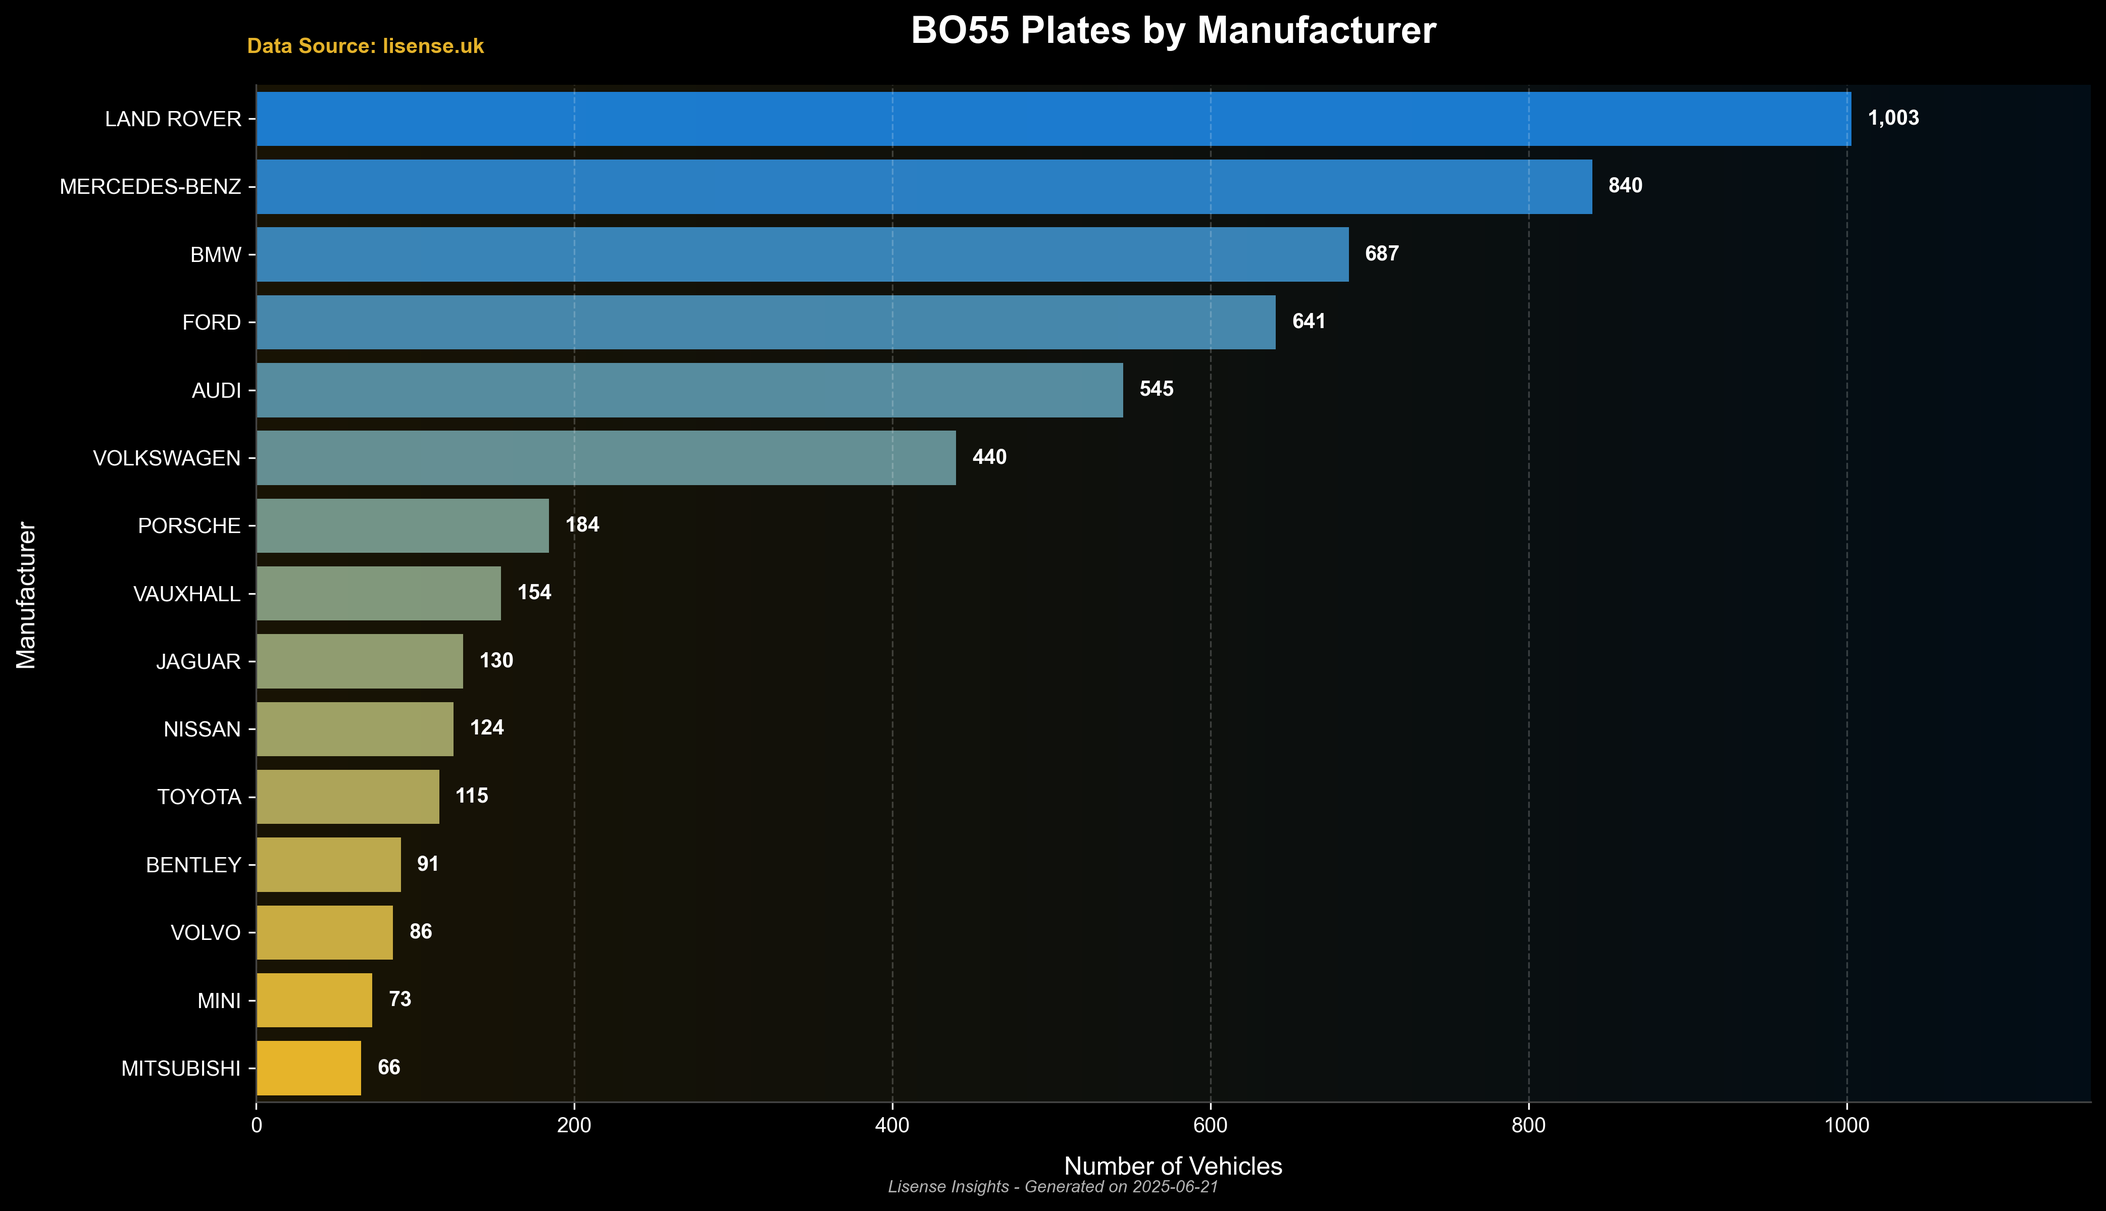
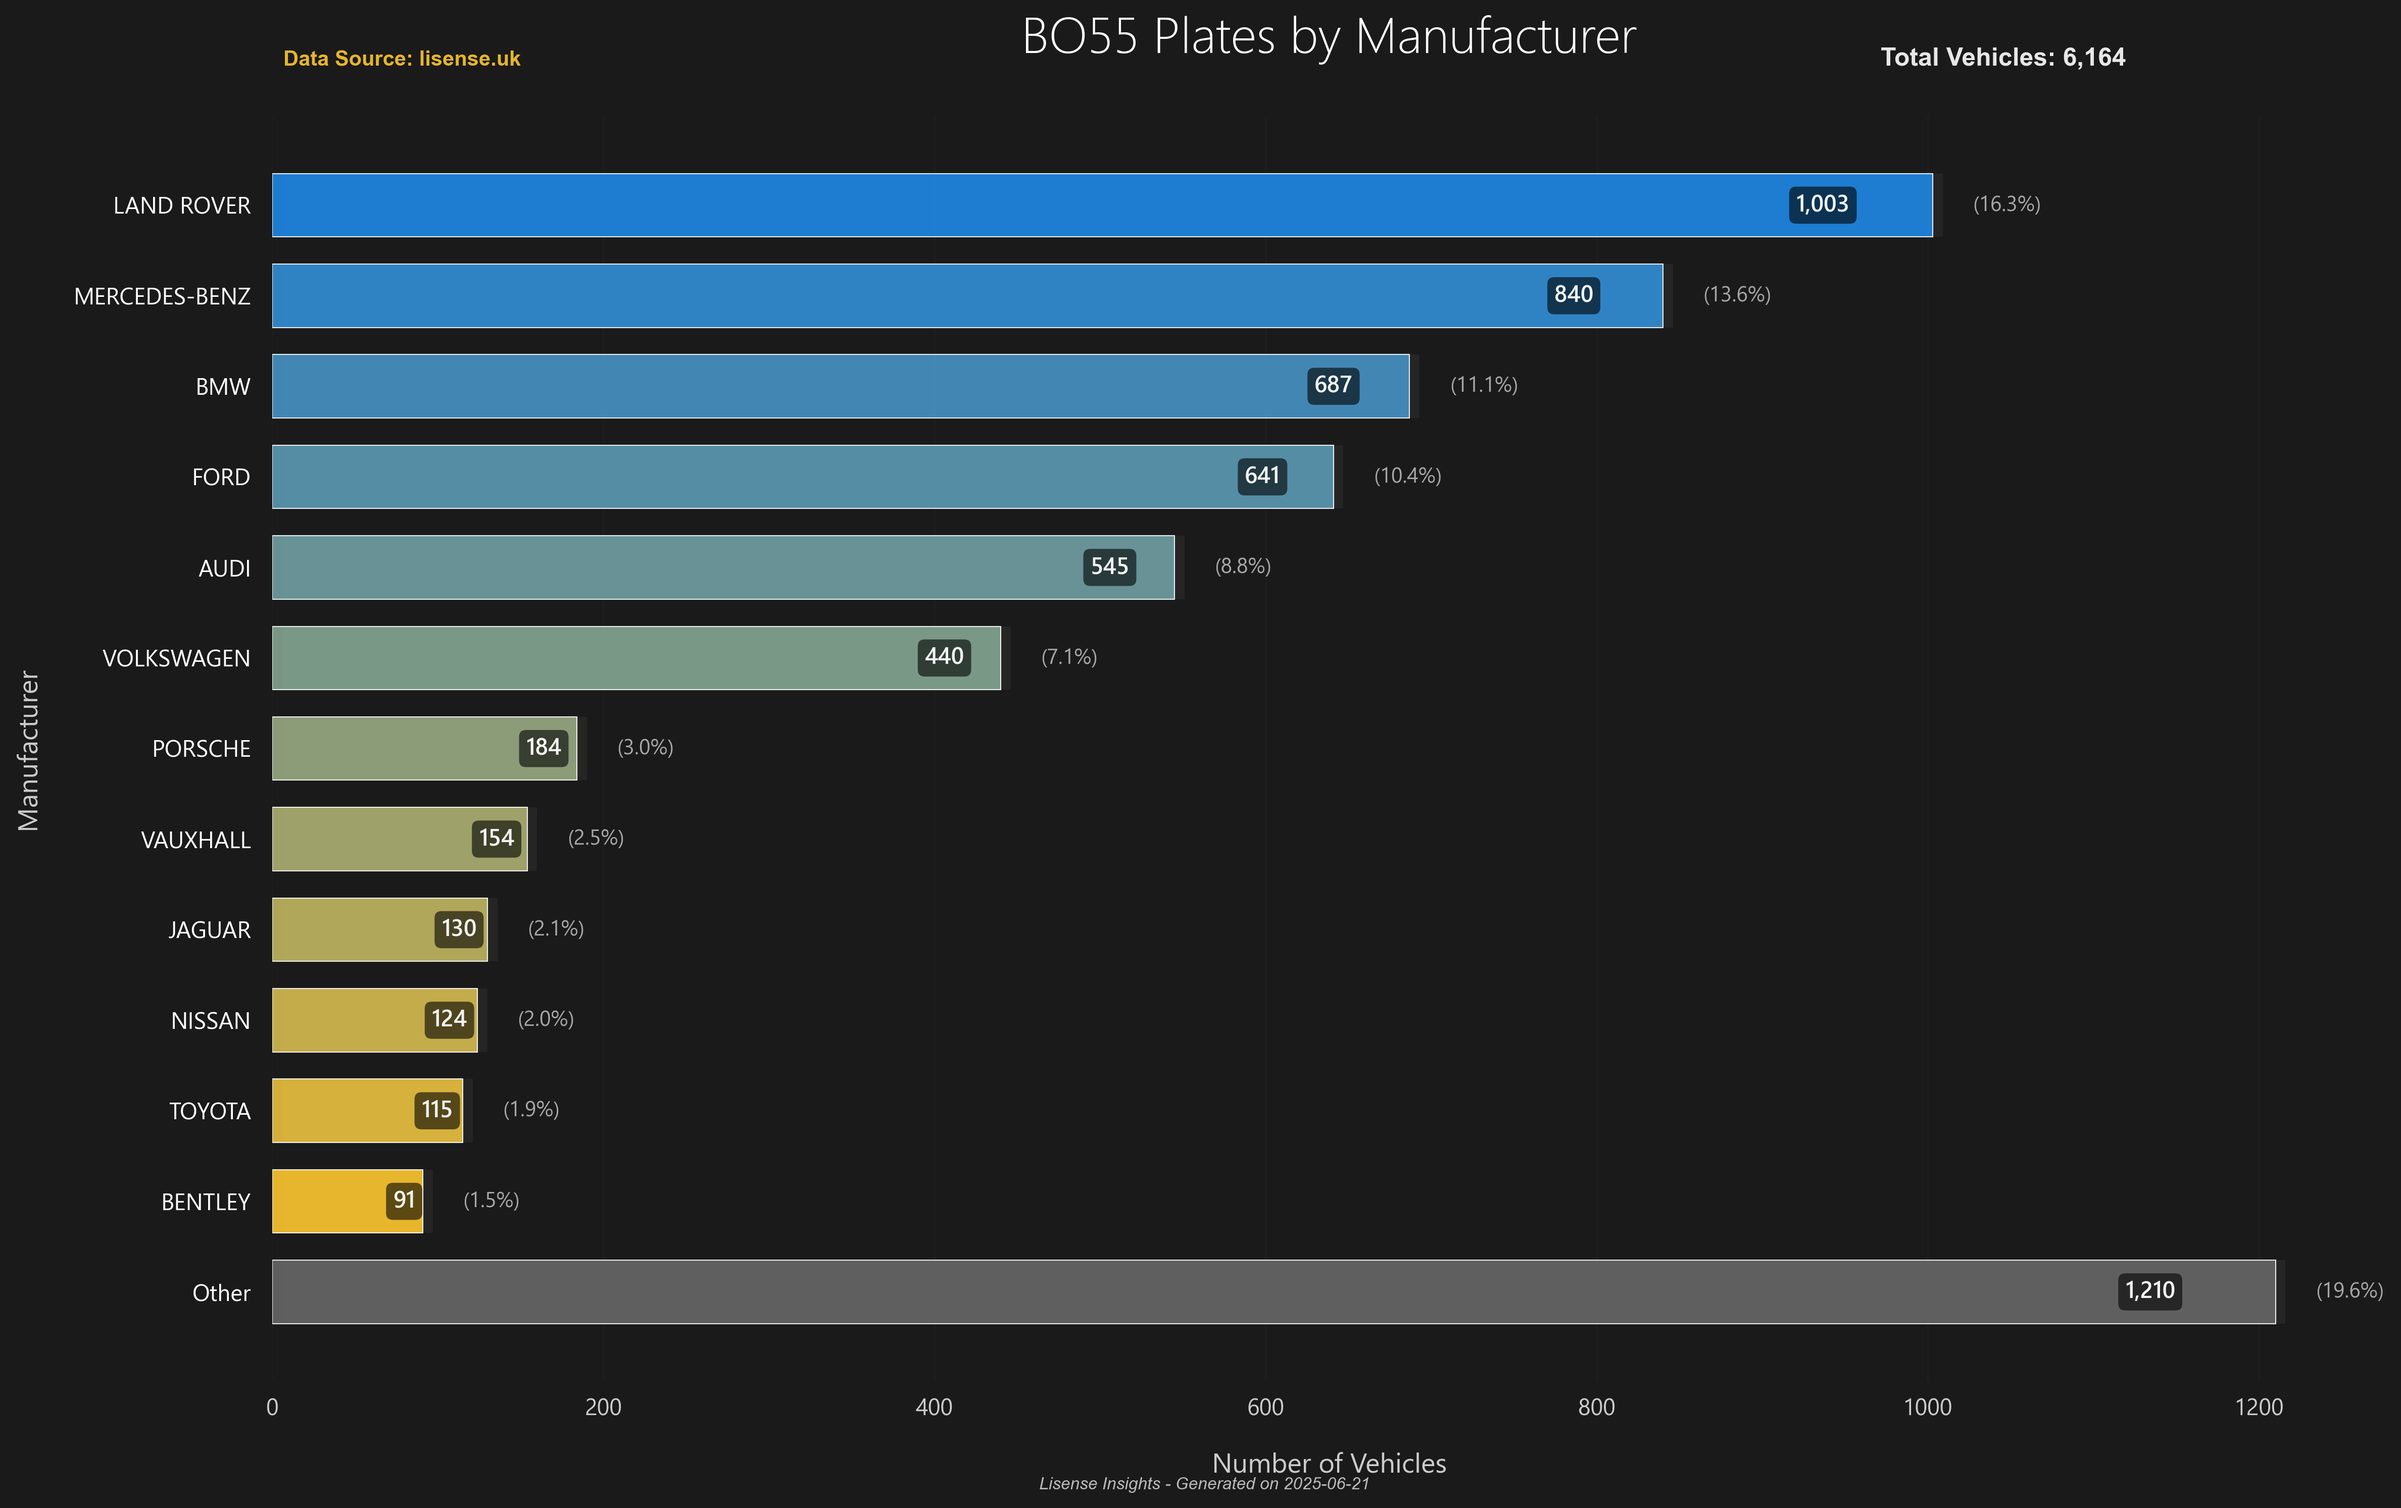
Update README.md and app.py for vehicle data visualization improvements
- Renamed input CSV file to `bo55_plates.csv` for consistency.
- Adjusted visualization to display top 12 vehicle makes instead of 15.
- Enhanced plot styling with modern fonts and colors.
- Added total vehicle count display in the plot footer.

diff --git a/app.py b/app.py
@@ -21,73 +21,132 @@ def plot_vehicle_makes(df):
     if df is None or df.empty:
         print("No data to plot")
         return
+      # Count the occurrences of each make and sort for better visualization
+    all_makes = df['make'].value_counts()
+    top_makes = all_makes.nlargest(12)  # Get top 12 manufacturers
     
-    # Count the occurrences of each make and sort for better visualization
-    make_counts = df['make'].value_counts().nlargest(15)  # Limit to top 15 for cleaner visualization
+    # Calculate "Other" category from remaining manufacturers
+    other_count = all_makes.iloc[12:].sum() if len(all_makes) > 12 else 0
     
-    # Reverse the order for display (highest at the top)
-    make_counts = make_counts.iloc[::-1]
+    # Create the final counts with "Other" at the bottom
+    if other_count > 0:
+        # Reverse the top makes for display (highest at the top)
+        make_counts = top_makes.iloc[::-1]
+        # Add "Other" at the bottom (first position after reversal)
+        make_counts = pd.concat([pd.Series([other_count], index=['Other']), make_counts])
+    else:
+        # If no "Other" category needed, just reverse for display
+        make_counts = top_makes.iloc[::-1]
+      # Set ultra-modern styling with dark background
+    plt.style.use('dark_background')  # Start with dark theme
+    plt.rcParams.update({
+        'font.family': ['Segoe UI', 'Arial'],
+        'font.size': 11,
+        'axes.labelsize': 12,
+        'axes.titlesize': 20,
+        'xtick.labelsize': 10,
+        'ytick.labelsize': 11,
+        'axes.linewidth': 0,
+        'axes.spines.left': False,
+        'axes.spines.bottom': False,
+        'axes.spines.top': False,
+        'axes.spines.right': False,
+    })
     
-    # Set the style and use modern fonts
-    plt.style.use('dark_background')
-    plt.rcParams['font.family'] = 'Arial'  # Use a clean, modern font
-    
-    # Set up the figure size with high DPI for better quality
-    fig, ax = plt.subplots(figsize=(14, 8), dpi=100)
-    
-    # Create a custom color palette that includes #fec72f (yellow/gold)
+    # Set up the figure with dark background
+    fig, ax = plt.subplots(figsize=(16, 10), dpi=100)
+    fig.patch.set_facecolor('#1a1a1a')  # Dark background
+    ax.set_facecolor('#1a1a1a')    # Create a custom color palette that includes #fec72f (yellow/gold)
     start_color = '#fec72f'  # Yellow/gold
     end_color = '#1e88e5'    # Blue
     custom_cmap = mpl.colors.LinearSegmentedColormap.from_list("custom", [start_color, end_color])
-    colors = [custom_cmap(i) for i in np.linspace(0, 1, len(make_counts))]
     
-    # Create a horizontal bar plot with custom styling
-    bars = ax.barh(make_counts.index, make_counts.values, color=colors, alpha=0.9)
+    # Create colors, with special color for "Other" if it exists
+    if 'Other' in make_counts.index:
+        colors = [custom_cmap(i) for i in np.linspace(0, 1, len(make_counts)-1)]
+        # Add a distinct color for "Other" category
+        colors.insert(0, '#666666')  # Gray color for "Other" at the bottom
+    else:
+        colors = [custom_cmap(i) for i in np.linspace(0, 1, len(make_counts))]
     
-    # Add data labels to the bars
-    for i, bar in enumerate(bars):
-        ax.text(bar.get_width() + (make_counts.max() * 0.01), 
+    # Create bars with rounded corners effect and shadow
+    bars = ax.barh(make_counts.index, make_counts.values, 
+                   color=colors[:len(make_counts)], 
+                   height=0.7, alpha=0.9,
+                   edgecolor='white', linewidth=0.5)
+      # Add subtle shadow effect by creating offset bars
+    shadow_bars = ax.barh(make_counts.index, make_counts.values, 
+                         color='#404040', height=0.7, alpha=0.3,
+                         left=make_counts.max() * 0.005)  # Slight offset for shadow
+    
+    # Move shadow bars behind main bars
+    for shadow_bar in shadow_bars:
+        shadow_bar.set_zorder(1)
+    for bar in bars:
+        bar.set_zorder(2)
+    
+    # Add elegant data labels with better positioning
+    for i, (bar, value) in enumerate(zip(bars, make_counts.values)):
+        # Add value labels inside bars for better readability
+        label_x = bar.get_width() - (bar.get_width() * 0.05)
+        ax.text(label_x, bar.get_y() + bar.get_height()/2, 
+                f"{value:,}", 
+                va='center', ha='right',
+                fontsize=11, fontweight='600',
+                color='white', alpha=0.95,
+                bbox=dict(boxstyle="round,pad=0.3", facecolor='black', alpha=0.6, edgecolor='none'))
+          # Add percentage labels
+        percentage = (value / make_counts.sum()) * 100
+        ax.text(bar.get_width() + (make_counts.max() * 0.02), 
                 bar.get_y() + bar.get_height()/2, 
-                f"{make_counts.values[i]:,}", 
-                va='center', 
-                fontsize=10, 
-                fontweight='bold',
-                color='white',
-                fontfamily='Arial')
-    
+                f"({percentage:.1f}%)", 
+                va='center', ha='left',
+                fontsize=10, fontweight='400',
+                color='#CCCCCC', alpha=0.8)
     # Remove the frame and add minimal grid lines
     ax.spines['top'].set_visible(False)
     ax.spines['right'].set_visible(False)
-    ax.spines['bottom'].set_color('#444444')
-    ax.spines['left'].set_color('#444444')
-    ax.grid(axis='x', linestyle='--', alpha=0.2)
+    ax.spines['bottom'].set_visible(False)
+    ax.spines['left'].set_visible(False)
+    ax.grid(axis='x', linestyle='-', alpha=0.1, color='#444444', linewidth=0.8)
+    ax.set_axisbelow(True)
+      # Set title and labels with modern typography
+    plt.title('BO55 Plates by Manufacturer', 
+              fontsize=24, fontweight='300', pad=30,
+              color='#FFFFFF')
+    plt.xlabel('Number of Vehicles', fontsize=13, labelpad=15, color='#CCCCCC', fontweight='400')
+    plt.ylabel('Manufacturer', fontsize=13, labelpad=15, color='#CCCCCC', fontweight='400')
     
-    # Set title and labels with modern typography
-    plt.title('BO55 Plates by Manufacturer', fontsize=18, fontweight='bold', pad=20)
-    plt.xlabel('Number of Vehicles', fontsize=12, labelpad=10)
-    plt.ylabel('Manufacturer', fontsize=12, labelpad=10)
+    # Modern tick styling
+    ax.tick_params(axis='both', which='major', labelsize=11, colors='#CCCCCC', length=0)
+    ax.tick_params(axis='x', pad=8)
+    ax.tick_params(axis='y', pad=10)
     
-    # Add a subtle gradient background
-    gradient = np.linspace(0, 1, 100).reshape(1, -1)
-    ax.imshow(gradient, aspect='auto', extent=[0, make_counts.max()*1.15, -0.5, len(make_counts)-0.5], 
-              alpha=0.1, cmap=custom_cmap)
-    
-    # Make tick labels more modern
-    ax.tick_params(axis='both', which='major', labelsize=10)
+    # Style y-axis labels with better formatting
     for label in ax.get_yticklabels():
-        label.set_fontweight('medium')
+        label.set_fontweight('500')
+        label.set_color('#FFFFFF')
+    
+    # Style x-axis labels
+    for label in ax.get_xticklabels():
+        label.set_fontweight('400')
+        label.set_color('#CCCCCC')
     
     # Adjust layout
     plt.tight_layout()
     
     # Add a sleek footer
     plt.figtext(0.5, 0.01, "Lisense Insights - Generated on " + pd.Timestamp.now().strftime("%Y-%m-%d"), 
-                ha='center', fontsize=8, alpha=0.7, fontfamily='Arial', fontstyle='italic')
-    
-    # Add lisense.uk data source attribution
+                ha='center', fontsize=8, alpha=0.7, fontfamily='Arial', fontstyle='italic')    # Add lisense.uk data source attribution
     plt.figtext(0.12, 0.95, "Data Source: lisense.uk", 
                 ha='left', fontsize=10, fontweight='bold', 
                 color='#fec72f', alpha=0.9, fontfamily='Arial')
+    
+    # Add total count display in top right
+    total_vehicles = len(df)
+    plt.figtext(0.88, 0.95, f"Total Vehicles: {total_vehicles:,}", 
+                ha='right', fontsize=12, fontweight='bold', 
+                color='#FFFFFF', alpha=0.9, fontfamily='Arial')
     
     # Show and save the plot with high quality
     plt.savefig('vehicle_makes.png', dpi=300, bbox_inches='tight', transparent=False)

diff --git a/README.md b/README.md
@@ -9,14 +9,13 @@ The tool loads vehicle data from a CSV file and creates a high-quality visualiza
 ## Files
 
 -   `app.py` - Main Python script containing data loading and visualization functions
--   `vehicle_bo55.csv` - Input CSV data file containing vehicle information
+-   `bo55_plates.csv` - Input CSV data file containing vehicle information
 -   `vehicle_makes.png` - Output visualization of vehicle makes
 
 ## Features
 
 -   Loads and processes vehicle data from CSV
--   Creates a modern visualization of the top 15 vehicle makes
--   Uses a custom color palette ranging from yellow/gold to blue
+-   Creates a modern visualization of the top 12 vehicle makes
 -   Includes proper attribution and timestamp on the generated visualization
 -   Error handling for file loading issues
 
